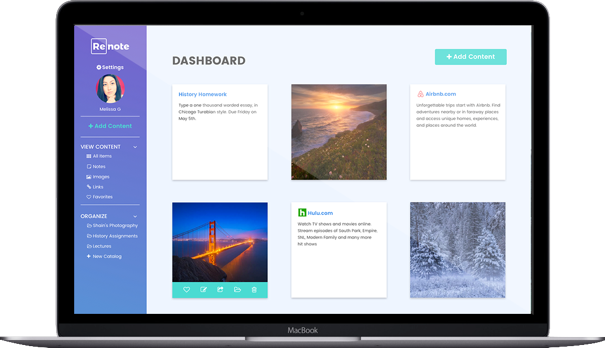
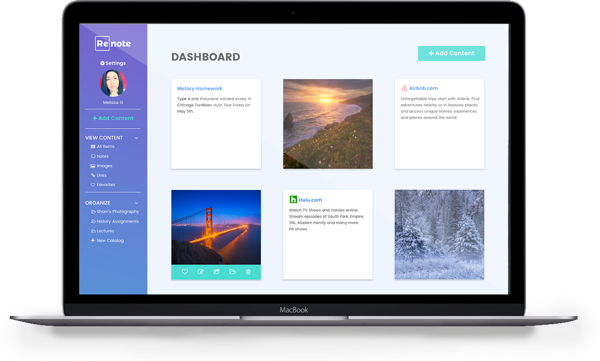
Hero revision

diff --git a/css/style.css b/css/style.css
@@ -112,12 +112,10 @@ margin-top: 0;
 }
     
 header .img-fluid{
-    padding-top: 30px;
+  padding-top: 35px;
   max-width: 100%;
   height: auto;
-    display: block;
-    
-    
+  display: block;
 }
 
 header .col-lg-12 img{
